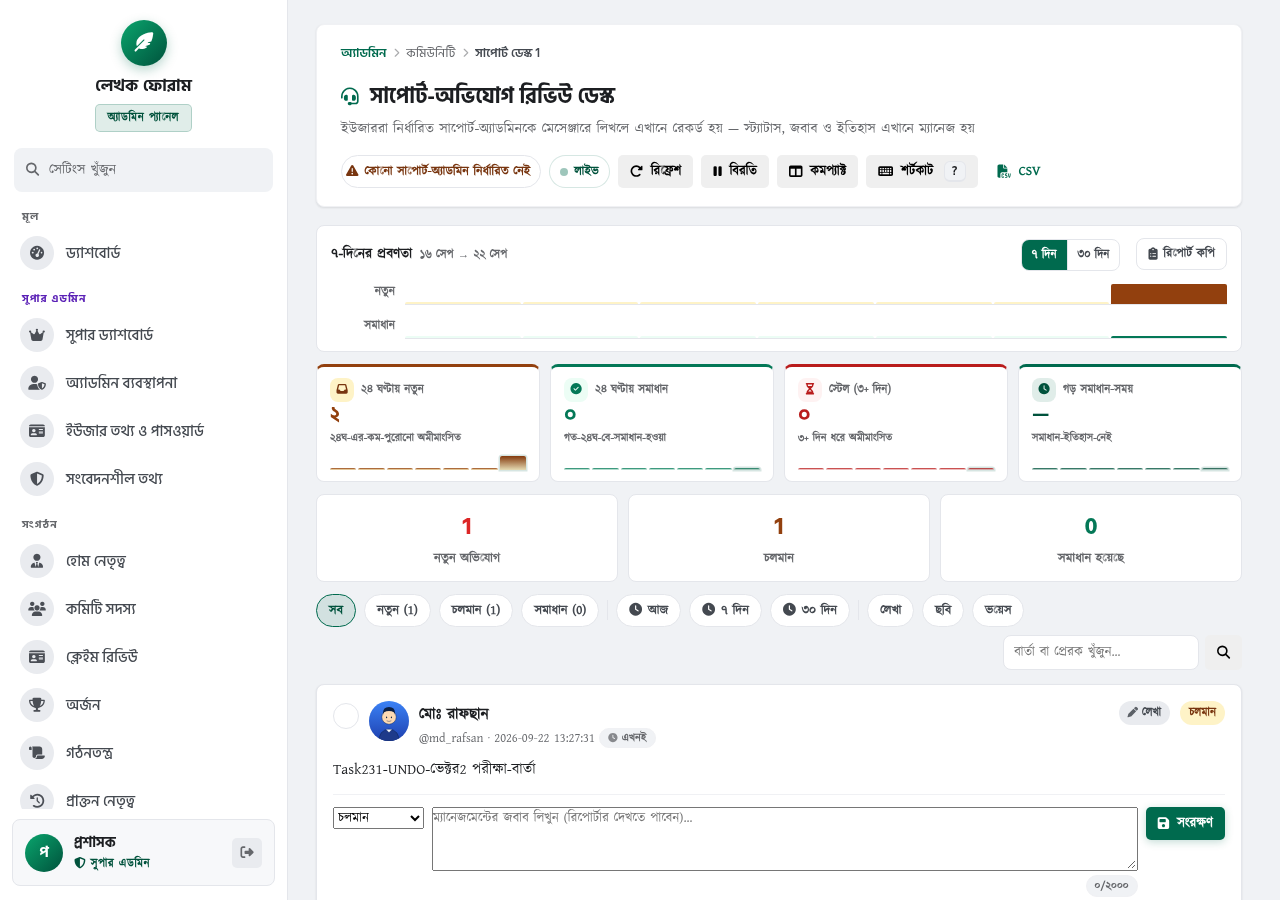
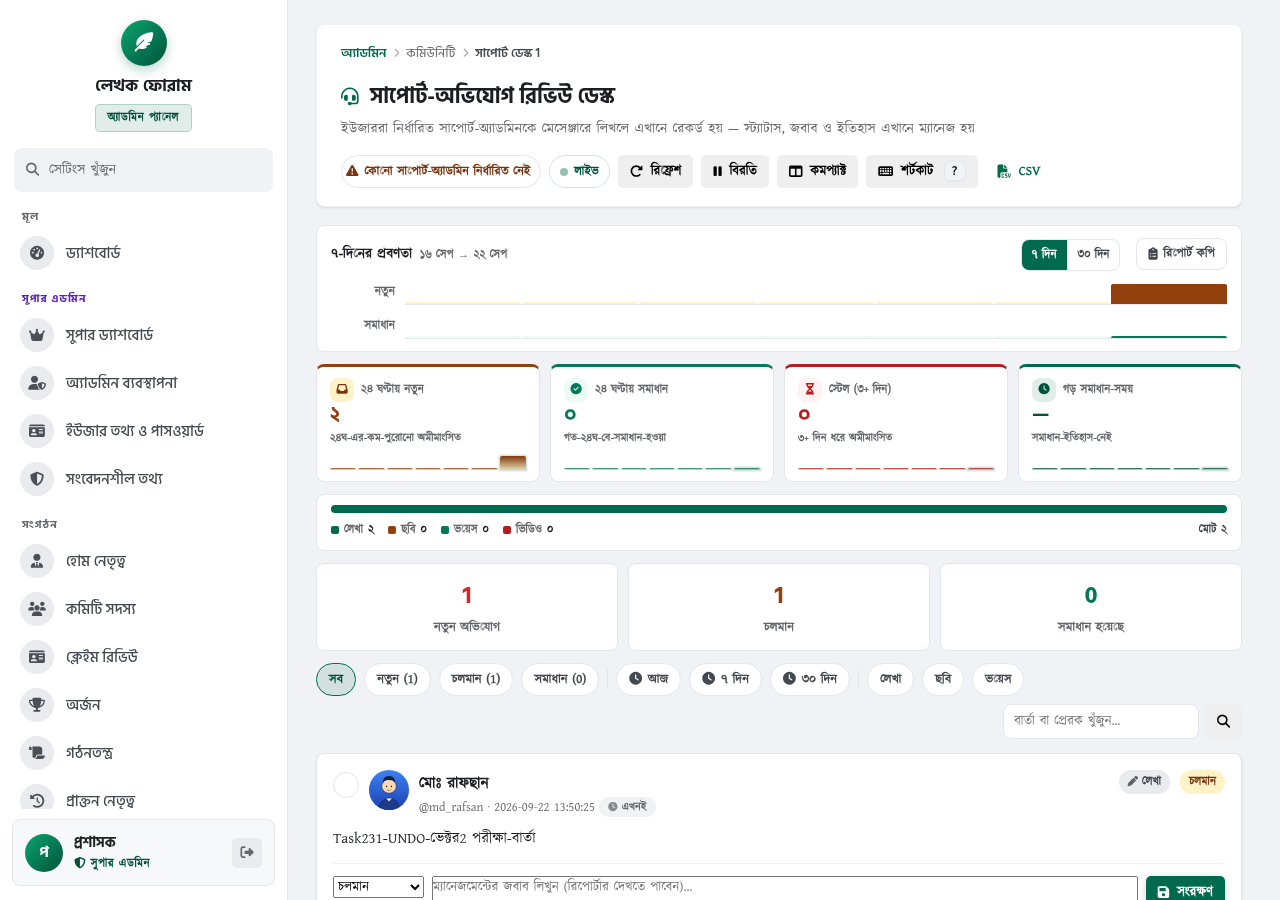
session241: Express support-center মিডিয়া-প্যাক — বাগ-ফিক্স (P2): CSV-href-এ range-প্যারাম-বাদ-পড়ত (রুট s229-থেকেই range-ফিল্টার+ফাইলনাম-সমর্থিত — ভিউ-শুধু-অন্ধ) → href-এ range + ফিল্টার-টুলটিপ (title-এ সক্রিয়-ফিল্টার-তালিকা) + সক্রিয়-ফিল্টার-ডট-ব্যাজ (.sc-csv-dot — ফিল্টার-শূন্যে অনুপস্থিত); ফি

diff --git a/lekhok-forum/tests/s241-seed-media.js b/lekhok-forum/tests/s241-seed-media.js
@@ -1,0 +1,38 @@
+#!/usr/bin/env node
+// s241-seed-media.js — মিডিয়া-প্যাক-সুইট-সিড (ফাইল-লেভেল-DB-এডিট — sql.js-মেমোরি-আইসোলেশন-চুক্তি: সার্ভার-বন্ধ-অবস্থায়-ই-চালাতে-হবে)
+// ব্যবহার: node tests/s241-seed-media.js seed|cleanup
+// TAG-উপসর্গ 'Task241-MEDIA' — জঞ্জাল-শূন্য-চুক্তি (seed-আগেই-প্রি-ক্লিন; cleanup-এ শেষ-পরিষ্কার)
+// সিড: TEXT ×২ + IMAGE ×১ + AUDIO ×১ (মিডিয়া-স্ট্রিপ/payload/CSV-গণনা-নিখুত-যাচাই; media_url-শূন্য — রিড-ওনলি-রেন্ডার)
+'use strict';
+const path = require('path');
+const fs = require('fs');
+process.chdir(path.join(__dirname, '..')); // app root (lekhok.db relative)
+const TAG = 'Task241-MEDIA';
+const mode = process.argv[2] || 'seed';
+
+(async () => {
+  const initSqlJs = require('sql.js');
+  const SQL = await initSqlJs();
+  if (!fs.existsSync('lekhok.db')) { console.error('FATAL: lekhok.db নেই'); process.exit(1); }
+  const db = new SQL.Database(fs.readFileSync('lekhok.db'));
+  db.run('DELETE FROM user_reports WHERE message_text LIKE ?', [TAG + '%']); // প্রি-ক্লিন (বারবার-রান-নিরাপদ)
+  if (mode === 'seed') {
+    const rows = [
+      [TAG + '-লেখা-এক', 'TEXT'],
+      [TAG + '-লেখা-দুই', 'TEXT'],
+      [TAG + '-ছবি-সংযুক্তি', 'IMAGE'],
+      [TAG + '-ভয়েস-বার্তা', 'AUDIO'],
+    ];
+    for (const [msg, mt] of rows) {
+      db.run(
+        "INSERT INTO user_reports (sender_id, message_text, media_type, status, created_at) VALUES (1, ?, ?, 'PENDING', datetime('now'))",
+        [msg, mt]
+      );
+    }
+  } else if (mode !== 'cleanup') {
+    console.error('mode: seed|cleanup'); process.exit(1);
+  }
+  fs.writeFileSync('lekhok.db', Buffer.from(db.export()));
+  const c = db.exec("SELECT COUNT(*) FROM user_reports WHERE message_text LIKE '" + TAG + "%'");
+  console.log(mode.toUpperCase() + '-COUNT=' + c[0].values[0][0]);
+})().catch(e => { console.error('FATAL ' + e.message); process.exit(1); });

diff --git a/lekhok-forum/PLANS.md b/lekhok-forum/PLANS.md
@@ -2658,3 +2658,13 @@ push-পূর্ব rebase-এ (f629b06) দেখা যায় আরেক
 - **E2E-গোটচা ×১ (নতুন, গুরুত্বপূর্ণ):** **agent-browser eval বাইরের-স্তরে-আবার-JSON-এনকোডড** — `JSON.stringify({r:'30'})`-ফেরত `"{\"r\":\"30\"}"` (আউটপুট-স্ট্রিং-হিসেবে, কোট-এস্কেপড) → স্ট্রিং-মান-অ্যাসার্টে `r..:..30` (কোলনের-**পরে** `..` — ব্যাকস্ল্যাশ+কোট-জোড়া); `r...30`/`r..:.30.`-জাতীয়-প্যাটার্ন মিথ্যা-ফেল (s240-প্রথম-রানে ৫-ফেল); বুলিয়ান `k..:true`-অপরিবর্তিত — মান-শুরু-হয় সরাসরি অক্ষরে।
 - **সুইট-চুক্তি:** s240 = সিড-শূন্য + **ভিতরেই s240-unit-গেট** (FATAL-আগেই); **শেষে localStorage sc-wkr-পরিষ্কার** — নইলে পরের-রাউন্ডের s239-exact-অ্যাসার্ট ক্রস-রান-দূষণে ফেল (ডেমন-প্রোফাইল-স্থায়িত্ব)।
 - **পরের-এজেন্ট: session241 থেকে।** বাকি-প্রস্তাব: Turso/প্রোড-পোর্ট (পরিকল্পনা-গেটে-অক্ষুণ্ণ), stale-সুইট (scripts/test-role-policy.sh) আধুনিকীকরণ, রিপোর্ট-পেলোডে মিডিয়া-বিভাজন-সারাংশ (ঐচ্ছিক); সুইট-বর্ধনে s240/s239-ই-বেস; push-আগে fetch+rebase-বাধ্যতমূলক; AGENT-NOTICE-চেকলিস্ট-মানুন।
+
+### session241 — মিডিয়া-প্যাক (cross-agent নোট)
+
+- **EJS-রেন্ডার-অর্ডার-চুক্তি (গুরুত্বপূর্ণ, নতুন):** টেমপ্লেট = টপ-টু-বটম-এক্সিকিউশন — নেস্টেড-ফাংশন (যেমন scWkReportText) আগে-সংজ্ঞায়িত হলেও **কল-সাইটেই-চলে**; ফলে `<% var mediaBreak = ... %>` অবশ্যই **payload-কল-লাইনের আগের ফাইল-অবস্থানে** হতে হবে (ফাংশন-সংজ্ঞার-আগে-নয়) — নইলে কল-মুহূর্তে undefined → composer-throw → try/catch নীরবে `{"text":""}` (s241-প্রথম-রানে-ধরা; প্রতিকার = ব্লক-স্থানান্তর)। নতুন-ভিউ-ভ্যারিয়েবল-যোগের-সময় কল-গ্রাফ-উপরে-নিচে-মানুন।
+- **eval-JSON-মান-প্যাটার্ন-টেবিল (চূড়ান্ত — session240-নোটের-সম্প্রসারণ):** agent-browser eval ফেরত বাইরের-স্তরে-আবার-JSON-এনকোডড → **সংখ্যা** = `k..:N` (কোলনের-পরে-সরাসরি-অঙ্ক — কোনো-ডট-নয়), **স্ট্রিং** = `k..:..v` (কোলন-পরবর্তী `..` = এস্কেপড-কোট-জোড়া), **বুলিয়ান** = `k..:true`/`k..:false`; ভুল-স্তরের-প্যাটার্ন = নীরব-মিথ্যা-ফেল (s241-প্রথম-রানে ৫-ফেল)।
+- **CSV-সারি-গণনা-চুক্তি:** রুট `join('\r\n')` — **শেষ-লাইনে-নিউলাইন-নেই** → `wc -l` off-by-one-মিথ্যা-সংখ্যা → `awk 'END{print NR}'`-ই-সত্য-লাইন-গণনা (হেডার-সহ); data-rows = NR−1।
+- **রেন্ডার্ড-HTML-অ্যাসার্ট-চুক্তি:** curl-এর HTML-এ EJS-সোর্স-ফ্র্যাগমেন্ট (`range ? 'range='+range : ''`) **আসে-না** — রেন্ডার-ফলাফল-যাচাই করুন: ফিল্টার-সহ-ফেচ (যেমন `?range=7d`) → href/title-এ প্রত্যাশিত-মান; conditional-এলিমেন্ট (ডট-ব্যাজ) ফিল্টার-সক্রিয়-ফেচে-উপস্থিত/শূন্য-ফেচে-অনুপস্থিত।
+- **মিডিয়া-চুক্তি:** `scMediaBreakdown(rowsArr)` EJS-এক-উৎস (composer+strip দুই-গ্রাহক — নতুন-গ্রাহককেও এ-ভ্যার-ই); strip = flex-grow-অনুপাত (ক্লায়েন্ট-গণনা-শূন্য) + data-mt/mi/ma/mv/mtotal-হুক ×৫ (QA/পরীক্ষা-এক-উৎস); শূন্য-মোটে sc-mb-none-ফলব্যাক; রঙ = TEXT accent · IMAGE amber · AUDIO ok · VIDEO danger (টোকেন-পরিবার); সম্পূর্ণ-স্ট্যাটিক — transition-নেই।
+- **সুইট-চুক্তি:** s241 = সিড-সুইট (TAG 'Task241-MEDIA'; সার্ভার-বন্ধ-অবস্থায় seed; শেষে double-cleanup) + **q=TAG-স্কোপ-কৌশল** — ফিল্টার-স্কোপ-চুক্তি সুবিধায় mediaBreak/payload/CSV নিখুত-গণনা (বেস-DB-নিরপেক্ষ — অন্য-সুইটের-রো-যাই-থাকুক); CSV-ফাইলনাম-চুক্তি: `[base][-status][-media][-range]-YYYY-MM-DD.csv`।
+- **পরের-এজেন্ট: session242 থেকে।** বাকি-প্রস্তাব: Turso/প্রোড-পোর্ট (পরিকল্পনা-গেটে-অক্ষুণ্ণ), stale-সুইট (scripts/test-role-policy.sh) আধুনিকীকরণ; সুইট-বর্ধনে s241/s240-ই-বেস; push-আগে fetch+rebase-বাধ্যতমূলক; AGENT-NOTICE-চেকলিস্ট-মানুন।

diff --git a/worklog.md b/worklog.md
@@ -3738,3 +3738,25 @@ Task: cron-নির্দেশ — অবস্থা-যাচাই → agen
 - Turso/প্রোড-পোর্ট = পরিকল্পনা-গেটে-অক্ষুণ্ণ; টোকেন-নীতি অক্ষুণ্ণ (V3 .secrets/-এ-সক্রিয়; মুখোশ-ছাড়া-কখনো-প্রদর্শন-নয়)
 - পরের-এজেন্ট: **session241 লেবেল (worklog Task ID 82)**; PLANS session240-নোট অবশ্যই-পড়ুন (trendN-গেট + দ্বৈত-পেলোড + eval-এনকোড-গোটচা); push-আগে fetch+rebase-বাধ্যতমূলক; নতুন-সুইট tests/ এ-কমিট
 - রিমোট main = এ-রাউন্ডের session240-কমিট (push-পরবর্তী hash কমিট-লগে); working-tree ক্লিন
+
+---
+Task ID: 82 (session241 — cron 403679; CSV-range-ফিক্স + মিডিয়া-বিভাজন-পেলোড + মিডিয়া-স্ট্রিপ প্যাক)
+Agent: Z.ai Code (main session, cron 403679, web-26d1f0e9)
+Task: cron-নির্দেশ — অবস্থা-যাচাই → agent-browser QA → ফিক্স/ফিচার → worklog
+
+## বর্তমান প্রজেক্ট-অবস্থা (যাচাইকৃত)
+- HEAD=origin=`02fd82d` (session240) থেকে রাউন্ড-শুরু; URL-push-গোটচা: remote-tracking-ref স্টেল (fetch-পরে 0/0); টোকেন ২০০-ভ্যালিদ; live 200
+- রাউন্ড-শুরু QA: পূর্ণ-ব্যাটারি ৩৫১/৩৫১ গ্রিন; তবে **P2-বাগ-আবিষ্কৃত:** ডেস্ক CSV-লিংক href-এ range-প্যারাম-বাদ (রুট s229-থেকে-সমর্থিত — ভিউ-শুধু-অন্ধ) → সময়-ফিল্টারে CSV-তে ব্যাপ্তি-বহির্ভূত-সারি → **ফিক্স-প্রথম**
+
+## এ-রাউন্ডে সম্পন্ন
+- **বাগ-ফিক্স (P2):** CSV-href-এ range + ফিল্টার-টুলটিপ (title-এ সক্রিয়-ফিল্টার-তালিকা) + সক্রিয়-ফিল্টার-ডট-ব্যাজ (.sc-csv-dot — ফিল্টার-শূন্যে অনুপস্থিত)
+- **[Mandatory-ফিচার ①]** রিপোর্ট-পেলোডে মিডিয়া-বিভাজন — EJS-এক-উৎস `scMediaBreakdown` (rows-স্কোপ; never-throws) → composer-সেকশন '▪ মিডিয়া বিভাজন (বর্তমান-স্কোপ)' দুই-পেলোডেই (bnNum-এক-উৎস)
+- **[Mandatory-ফিচার ② + স্টাইল]** ডেস্কে মিডিয়া-ডিস্ট্রিবিউশন স্ট্রিপ — track (role=img + data-হুক ×৫) + flex-grow-অনুপাত (TEXT=accent · IMAGE=amber · AUDIO=ok · VIDEO=danger; শূন্যে শূন্য-প্রস্থ; sc-mb-none-ফলব্যাক) + লেজেন্ড ×৪+মোট + সম্পূর্ণ-স্ট্যাটিক (reduced-motion-স্বাভাবিক-নিরাপদ) + 640px + QA-হুক `__scQA.mediaBreak`
+- **টেস্ট:** tests/s241-seed-media.js (TAG 'Task241-MEDIA' ×৪-সারি; প্রি-ক্লিন+cleanup; সার্ভার-বন্ধে-seed) + tests/s241-media-suite.sh **৪০/৪০** (রিপো-কমিটেড; q=TAG-স্কোপে নিখুত-গণনা {t:2,i:1,a:1,v:0,total:4} + payload-মিডিয়া ×৪ + CSV এন্ড-টু-এন্ড ×৫ + ডট-ব্যাজ ×২ + খালি-অবস্থা ×৩ + কনসোল/390px + স্ক্রিনশট ×২); **পূর্ণ-রিগ্রেশন ৩৯১/৩৯১** + secret-scan-ক্লিন + সিড-জঞ্জাল-শূন্য
+- **নতুন-গোটচা ×৪ (PLANS session241-নোট):** ① EJS-রেন্ডার-অর্ডার — ভ্যার-কল-সাইটের-আগে-ফাইল-অবস্থানে (ফাংশন-সংজ্ঞার-আগে-নয়; s241-প্রথম-রানে payload শূন্য) ② eval-JSON-মান-প্যাটার্ন-টেবিল চূড়ান্ত (সংখ্যা `k..:N` · স্ট্রিং `k..:..v` · বুলিয়ান `k..:true`) ③ CSV wc -l off-by-one → awk NR ④ রেন্ডার্ড-HTML-এ EJS-সোর্স-ফ্র্যাগমেন্ট-অ্যাসার্ট-নিষিদ্ধ — রেন্ডার-ফলাফল-যাচাই
+- ডক ×৩ (PROJECT §২৪১ + PLANS session241-নোট + এ-এন্ট্রি) + my-project-worklog Task 82 → secret-scan → fetch+rebase → push
+
+## ঝুঁকি ও পরবর্তী
+- Turso/প্রোড-পোর্ট = পরিকল্পনা-গেটে-অক্ষুণ্ণ; টোকেন-নীতি অক্ষুণ্ণ (V3 .secrets/-এ-সক্রিয়; মুখোশ-ছাড়া-কখনো-প্রদর্শন-নয়)
+- পরের-এজেন্ট: **session242 লেবেল (worklog Task ID 83)**; PLANS session241-নোট অবশ্যই-পড়ুন (রেন্ডার-অর্ডার + মান-প্যাটার্ন-টেবিল + CSV-গণনা + রেন্ডার্ড-অ্যাসার্ট); push-আগে fetch+rebase; নতুন-সুইট tests/ এ-কমিট
+- রিমোট main = এ-রাউন্ডের session241-কমিট; working-tree ক্লিন
